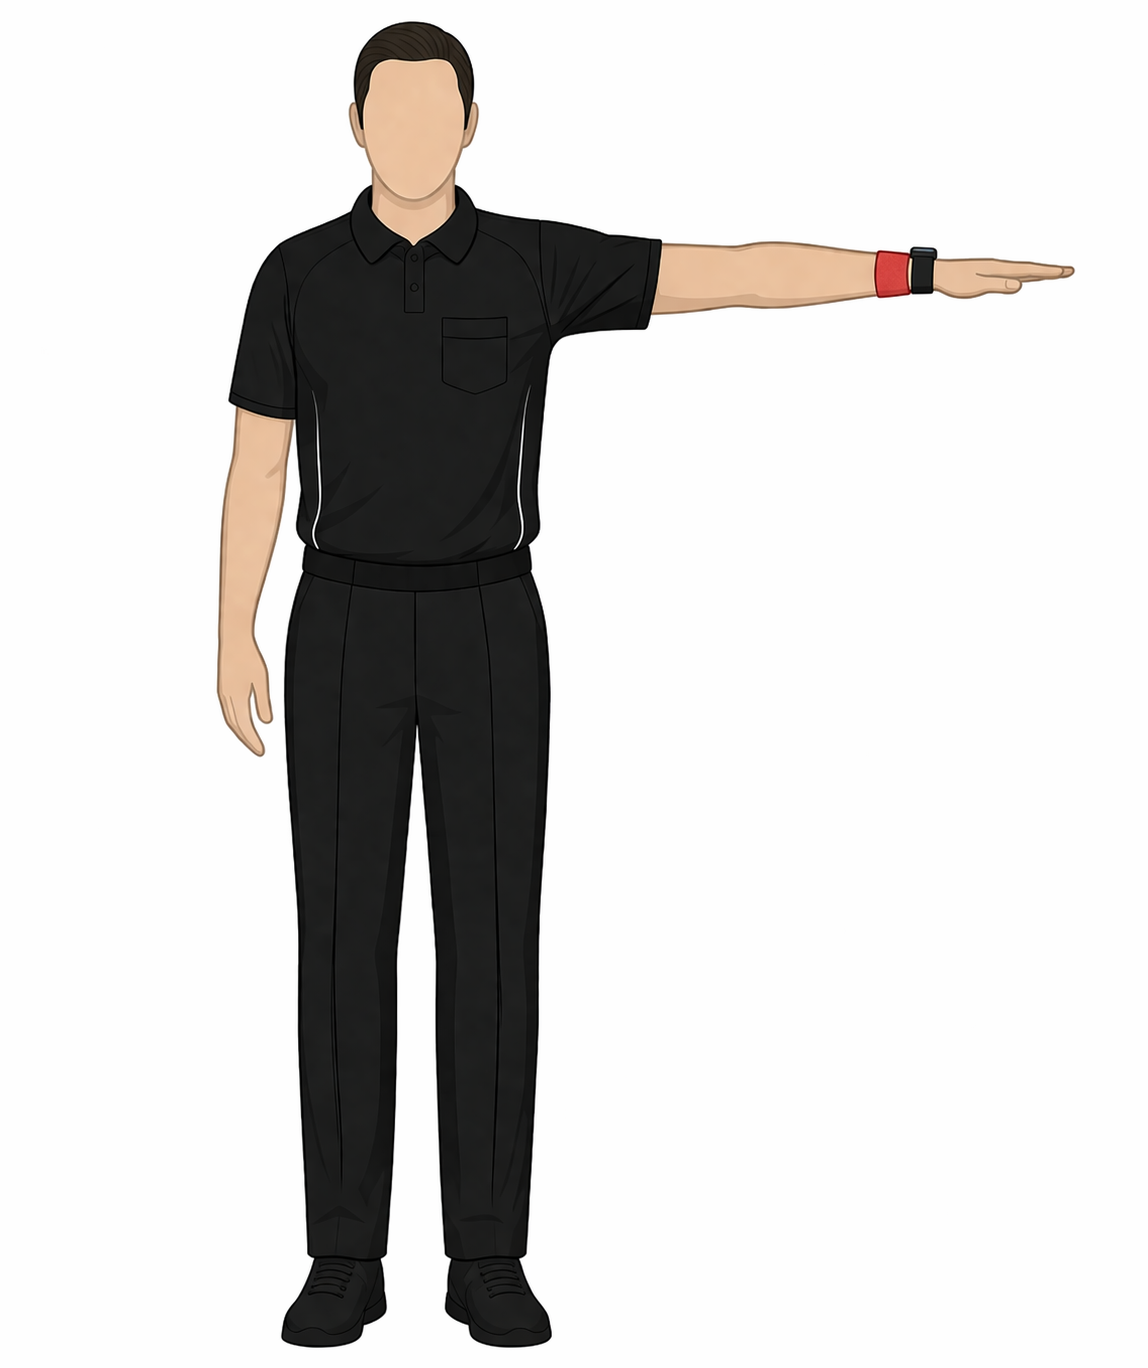
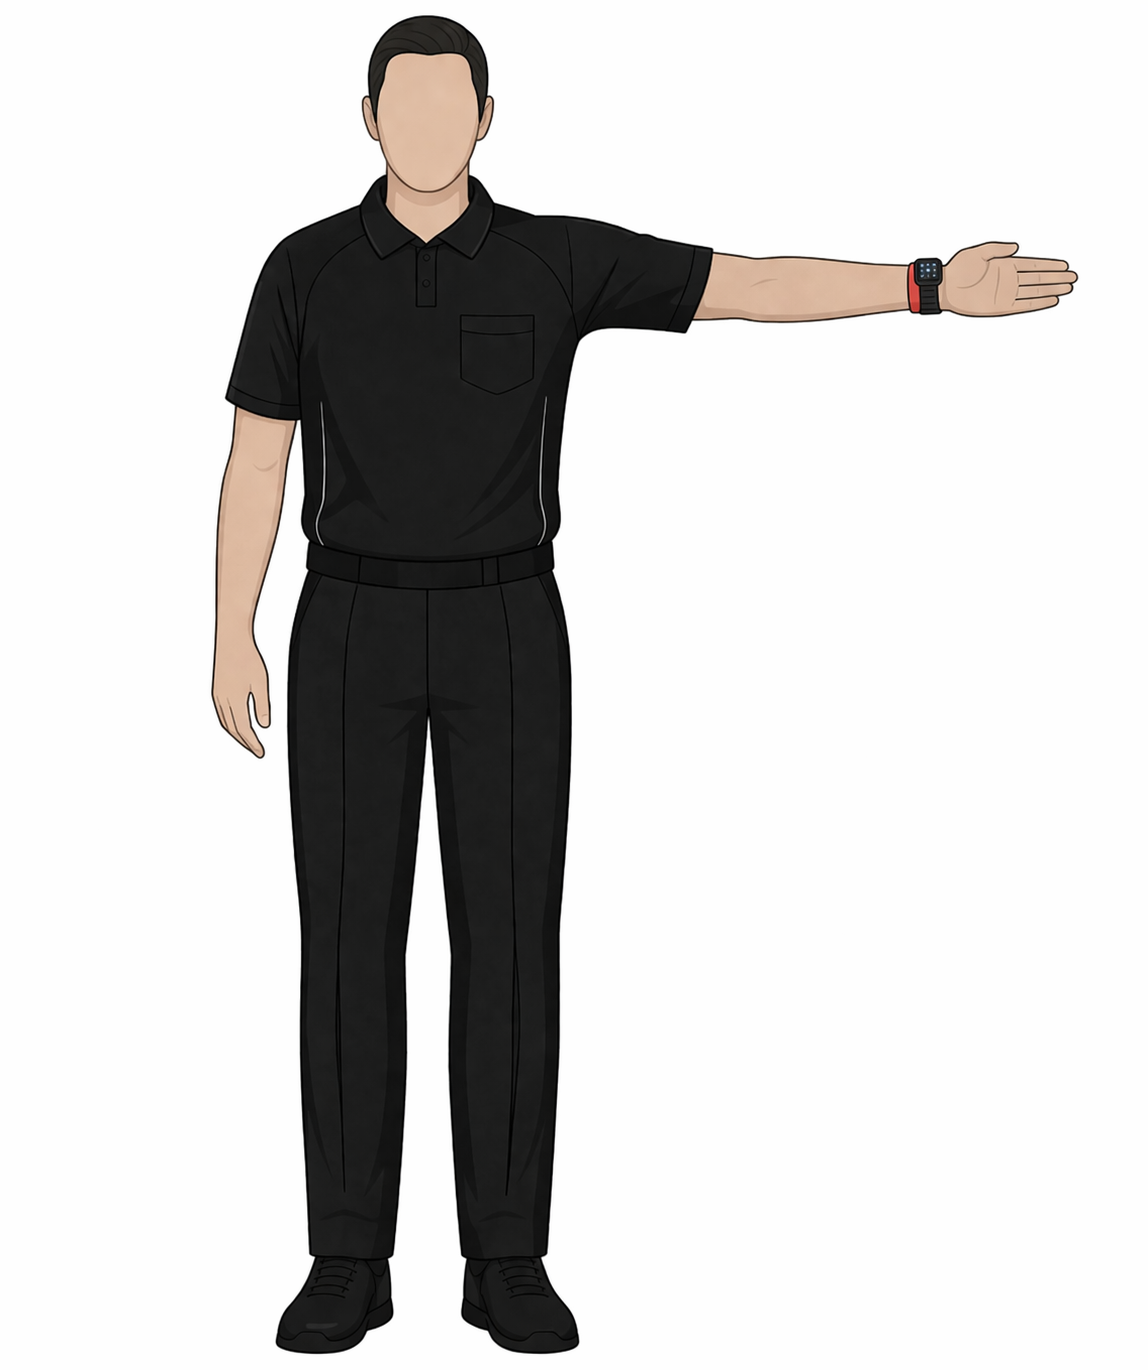
update thresholds, new image

diff --git a/includes/chapter5.tex b/includes/chapter5.tex
@@ -291,10 +291,10 @@ sú nasledovné:
 \begin{itemize}
     \item \colorbox{xaxis!20}{$-11{,}0
     \leq a_x \leq -9{,}0 \;\text{m/s}^2$}
-    \item \colorbox{yaxis!20}{$-4{,}0
-    \leq a_y \leq -2{,}0 \;\text{m/s}^2$}
-    \item \colorbox{zaxis!20}{$0{,}0
-    \leq a_z \leq 3{,}0 \;\text{m/s}^2$}
+    \item \colorbox{yaxis!20}{$-3{,}9
+    \leq a_y \leq -1{,}11 \;\text{m/s}^2$}
+    \item \colorbox{zaxis!20}{$-0{,}39
+    \leq a_z \leq 2{,}64 \;\text{m/s}^2$}
 \end{itemize}
 
 Ak sa hodnoty všetkých troch osí súčasne nachádzajú
@@ -349,10 +349,10 @@ orientácii zápästia. Hraničné hodnoty:
 \begin{itemize}
     \item \colorbox{xaxis!20}{$-1{,}43 \leq a_x
     \leq 1{,}46 \;\text{m/s}^2$}
-    \item \colorbox{yaxis!20}{$-3{,}41 \leq a_y
-    \leq 4{,}94 \;\text{m/s}^2$}
-    \item \colorbox{zaxis!20}{$7{,}72 \leq a_z
-    \leq 12{,}44 \;\text{m/s}^2$}
+    \item \colorbox{yaxis!20}{$-11{,}07 \leq a_y
+    \leq -7{,}47 \;\text{m/s}^2$}
+    \item \colorbox{zaxis!20}{$-4{,}55 \leq a_z
+    \leq 5{,}94 \;\text{m/s}^2$}
 \end{itemize}
 
 \subsubsection{PASIVITA -- modrý}

diff --git a/includes/thersholds.tex b/includes/thersholds.tex
@@ -2,7 +2,7 @@
 \newcommand{\flickRedThreshold}{700}
 \newcommand{\handUpAxMin}{8,5}
 \newcommand{\handUpAxMax}{10,5}
-\newcommand{\handUpAyMin}{-5,0}
-\newcommand{\handUpAyMax}{0,0}
-\newcommand{\handUpAzMin}{2,5}
-\newcommand{\handUpAzMax}{5,0}
+\newcommand{\handUpAyMin}{-3,87}
+\newcommand{\handUpAyMax}{0,71}
+\newcommand{\handUpAzMin}{0,67}
+\newcommand{\handUpAzMax}{4,01}
